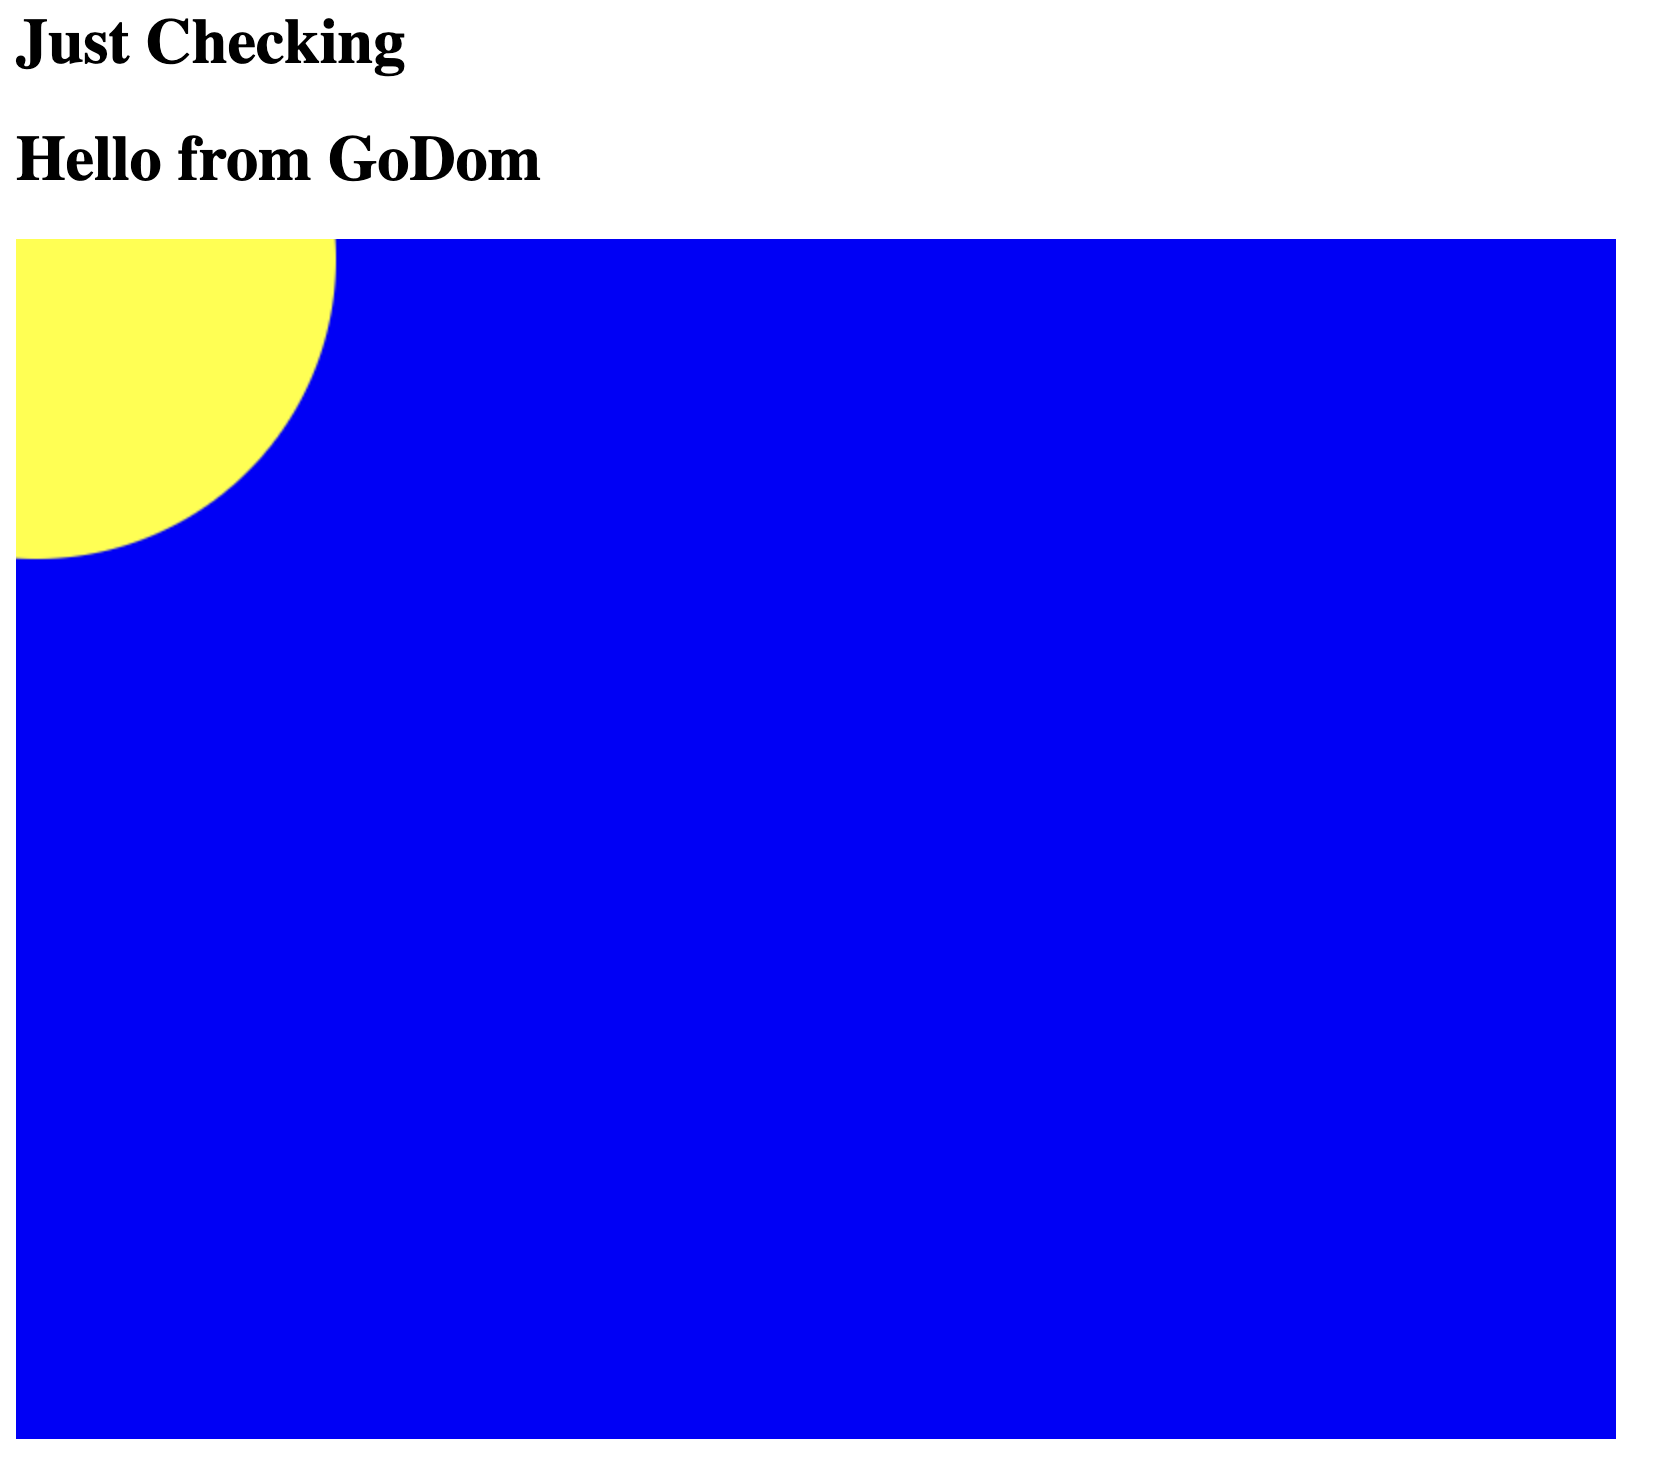
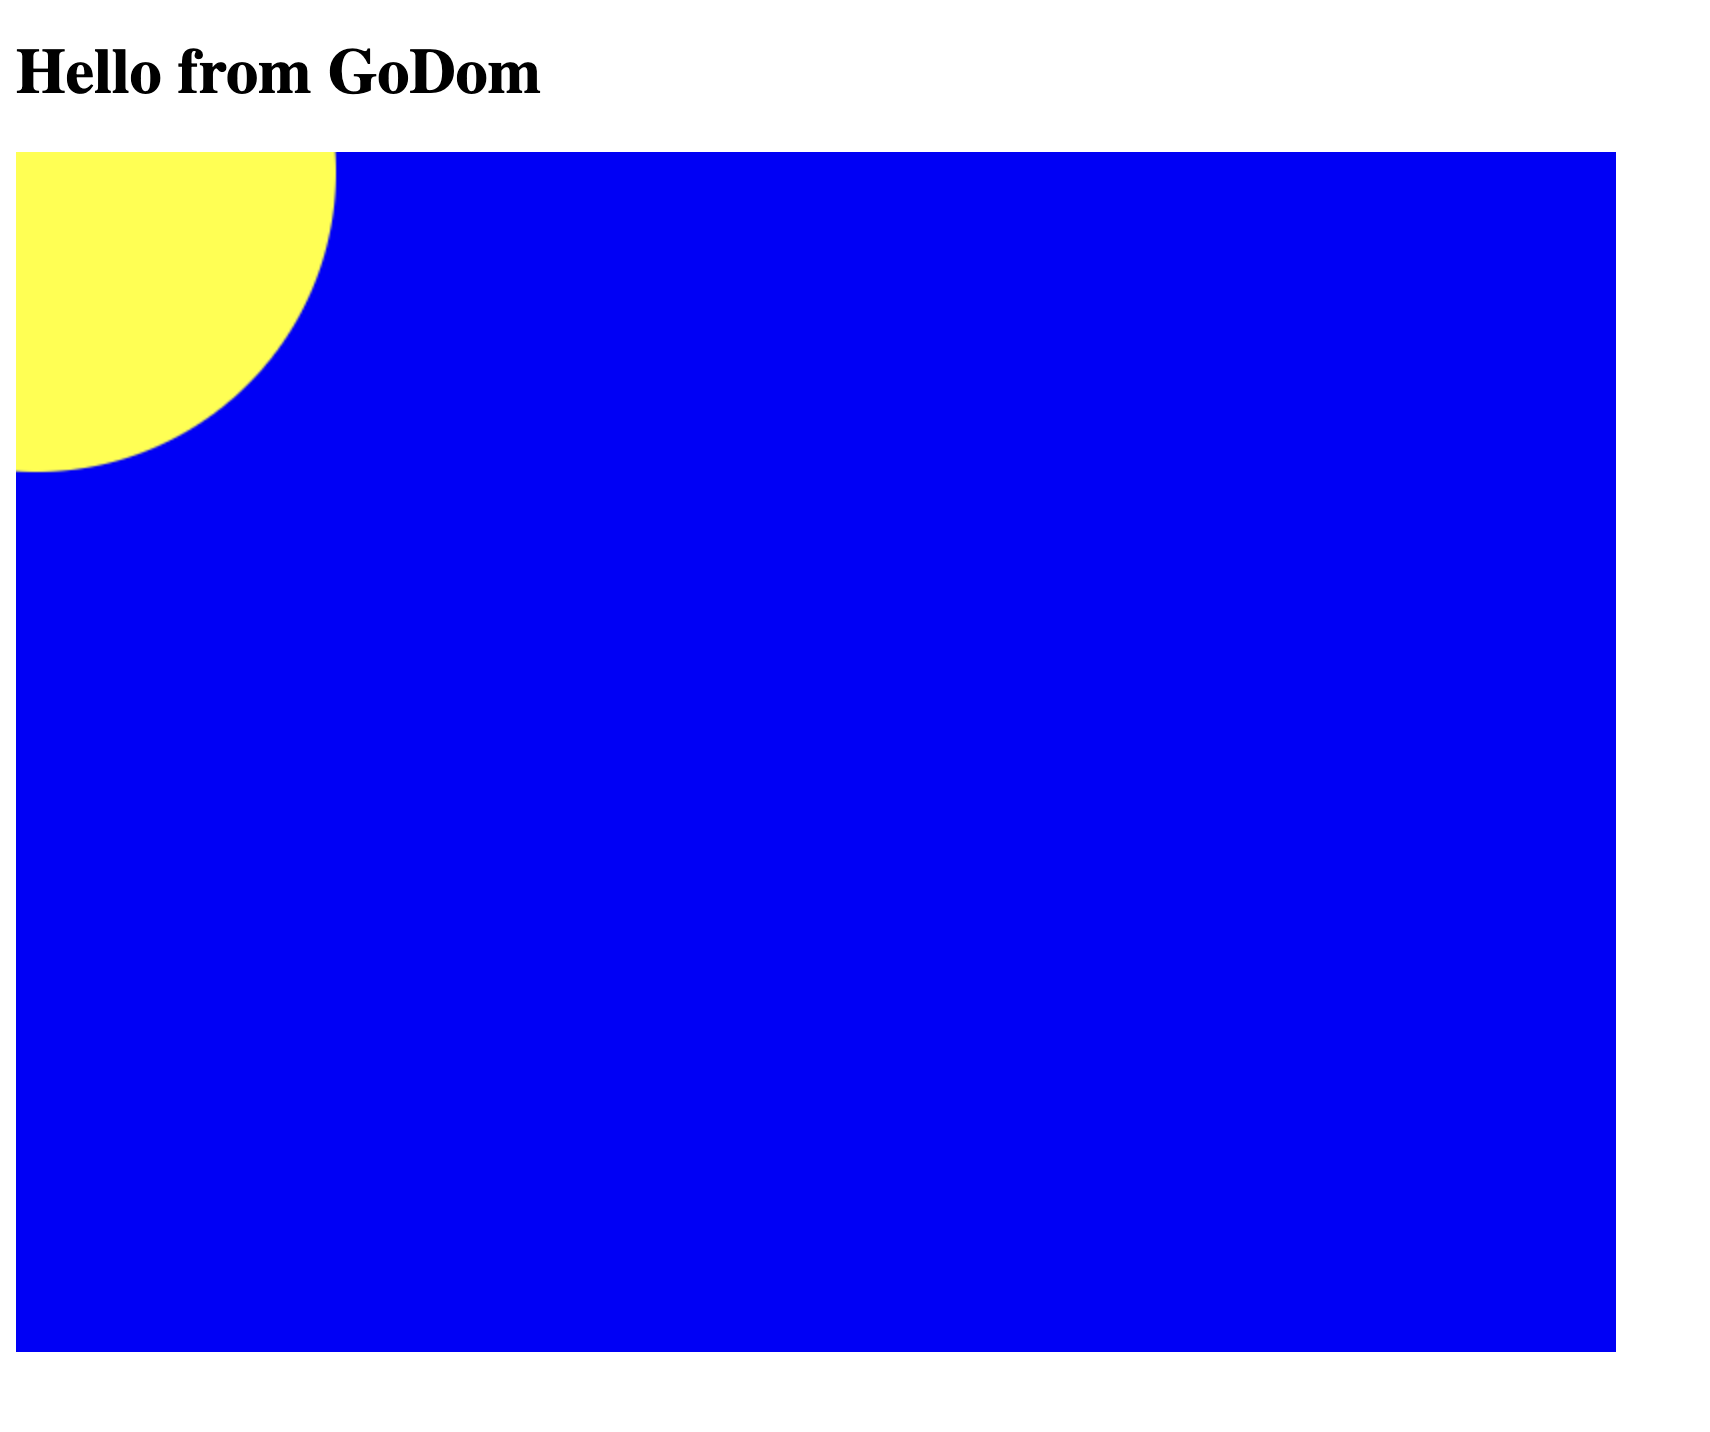
Fix header issue

Changed region(s): [[0.0, 0.0922, 0.963, 0.9832], [0.0, 0.0, 0.3106, 0.0615]]

diff --git a/conversions/learn_html_canvas/step_2/html/index.html b/conversions/learn_html_canvas/step_2/html/index.html
@@ -6,7 +6,6 @@
     <script src="wasm_exec.js"></script>
   </head>
   <body>
-      <h1>Just Checking</h1>
       <script>
         const go = new Go();
         WebAssembly.instantiateStreaming(fetch("app.wasm"), go.importObject).then((result) => {

diff --git a/conversions/learn_html_canvas/step_2/README.md b/conversions/learn_html_canvas/step_2/README.md
@@ -15,7 +15,6 @@ Let's edit our `index.html` and remove the header and update the title, like thi
     <script src="wasm_exec.js"></script>
   </head>
   <body>
-      <h1>Just Checking</h1>
       <script>
         const go = new Go();
         WebAssembly.instantiateStreaming(fetch("app.wasm"), go.importObject).then((result) => {
